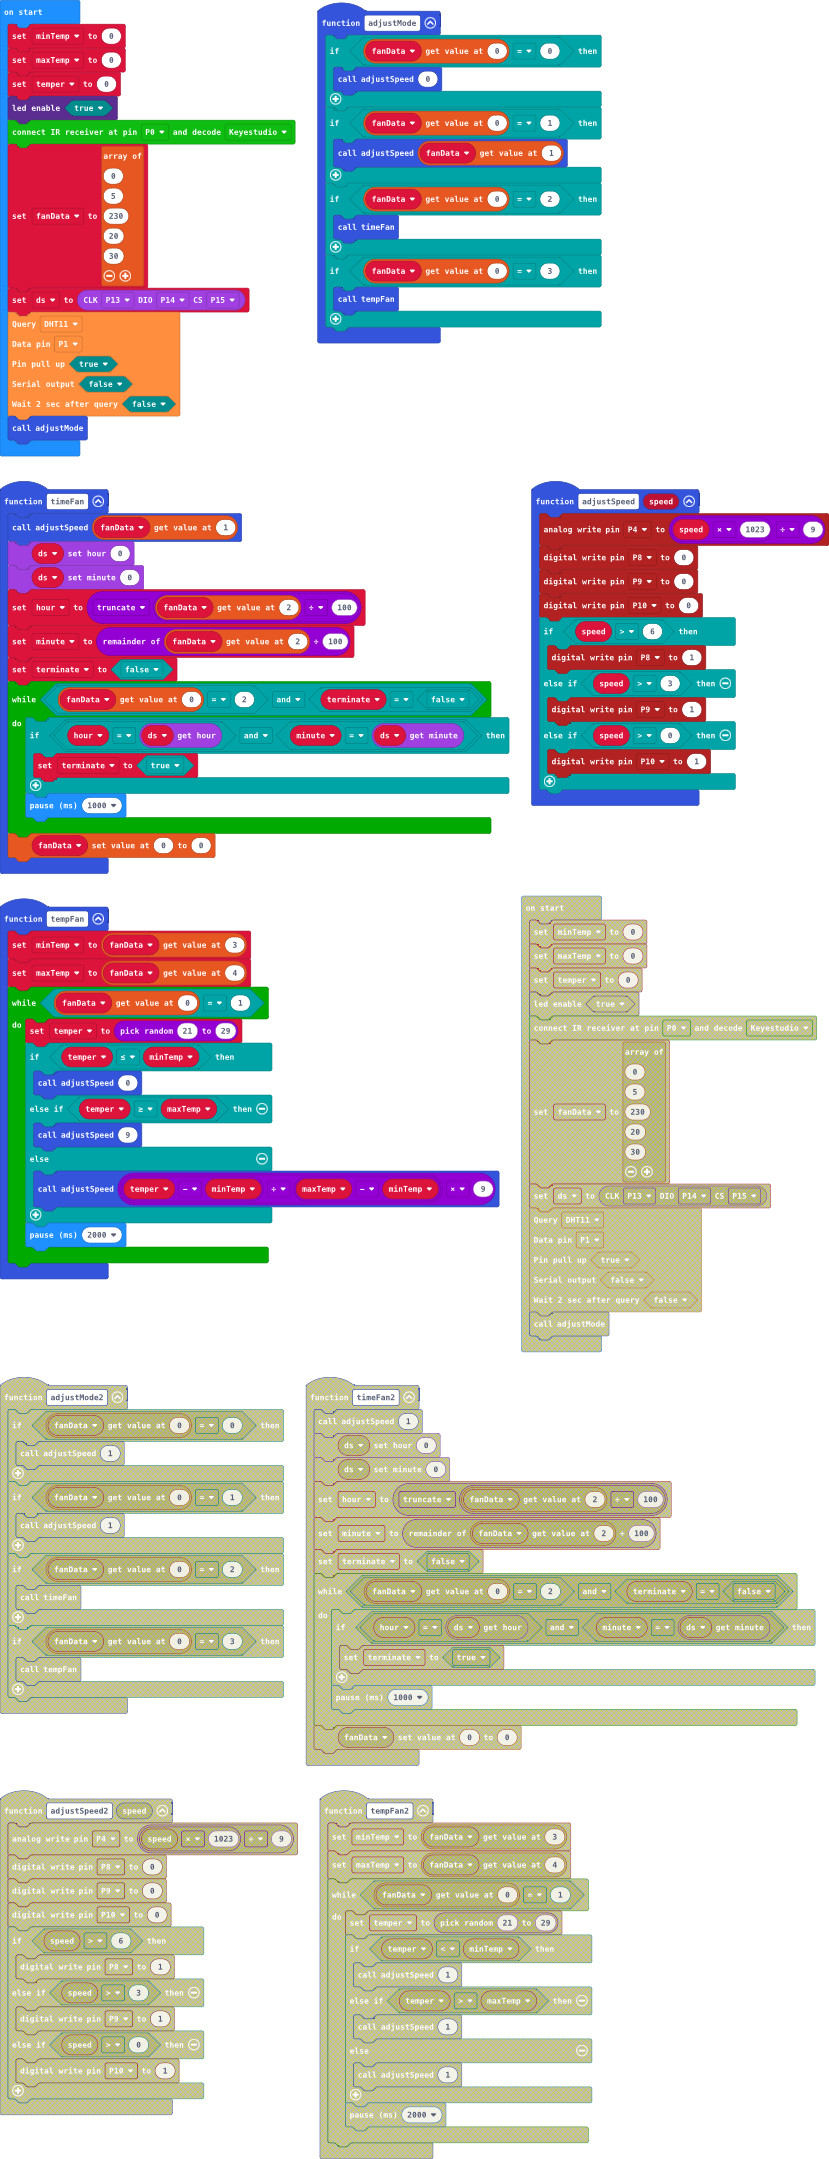
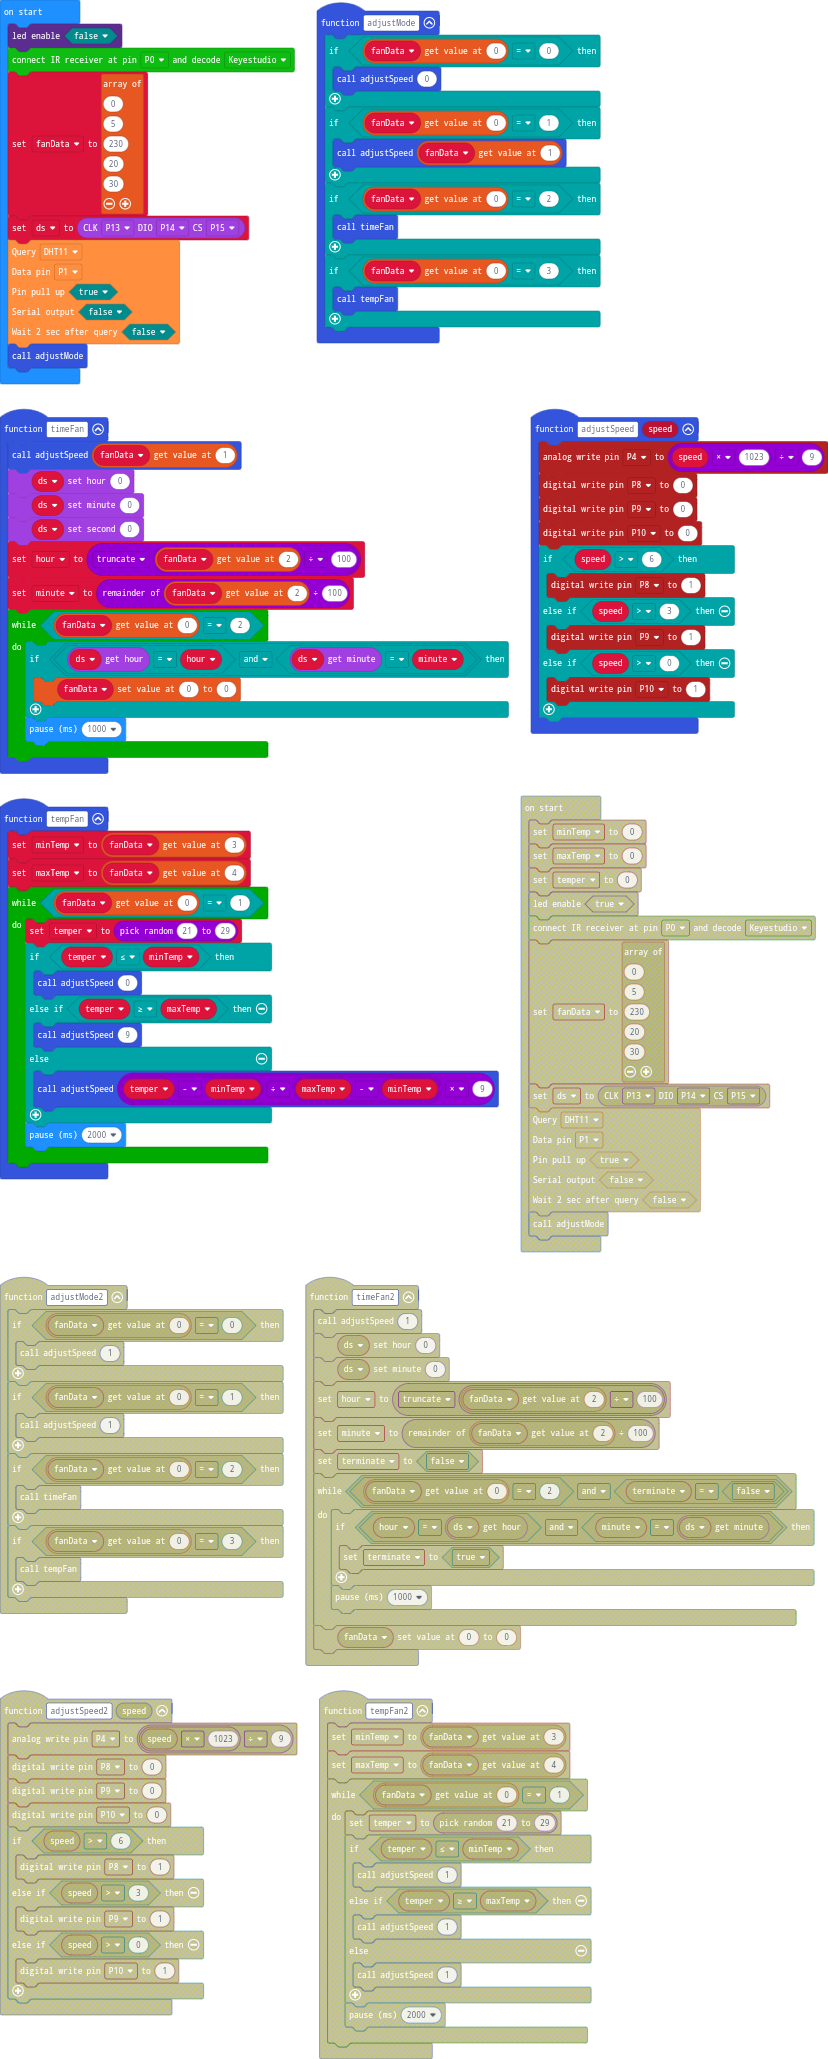
Update main.blocks, main.ts, main.py

diff --git a/main.ts b/main.ts
@@ -31,16 +31,15 @@ function timeFan () {
     adjustSpeed(fanData[1])
     ds.setHour(0)
     ds.setMinute(0)
+    ds.setSecond(0)
     hour = Math.trunc(fanData[2] / 100)
     minute = fanData[2] % 100
-    terminate = false
-    while (fanData[0] == 2 && terminate == false) {
-        if (hour == ds.getHour() && minute == ds.getMinute()) {
-            terminate = true
+    while (fanData[0] == 2) {
+        if (ds.getHour() == hour && ds.getMinute() == minute) {
+            fanData[0] = 0
         }
         basic.pause(1000)
     }
-    fanData[0] = 0
 }
 function adjustSpeed (speed: number) {
     pins.analogWritePin(AnalogPin.P4, speed * 1023 / 9)
@@ -55,18 +54,14 @@ function adjustSpeed (speed: number) {
         pins.digitalWritePin(DigitalPin.P10, 1)
     }
 }
-let terminate = false
 let minute = 0
 let hour = 0
-let ds: DS1302.DS1302RTC = null
-let fanData: number[] = []
 let temper = 0
 let maxTemp = 0
 let minTemp = 0
-minTemp = 0
-maxTemp = 0
-temper = 0
-led.enable(true)
+let ds: DS1302.DS1302RTC = null
+let fanData: number[] = []
+led.enable(false)
 makerbit.connectIrReceiver(DigitalPin.P0, IrProtocol.Keyestudio)
 fanData = [
 0,

diff --git a/main.py b/main.py
@@ -1,3 +1,16 @@
+def tempFan():
+    global minTemp, maxTemp, temper
+    minTemp = fanData[3]
+    maxTemp = fanData[4]
+    while fanData[0] == 1:
+        temper = randint(21, 29)
+        if temper <= minTemp:
+            adjustSpeed(0)
+        elif temper >= maxTemp:
+            adjustSpeed(9)
+        else:
+            adjustSpeed((temper - minTemp) / (maxTemp - minTemp) * 9)
+        basic.pause(2000)
 def adjustMode():
     if fanData[0] == 0:
         adjustSpeed(0)
@@ -7,7 +20,18 @@ def adjustMode():
         timeFan()
     if fanData[0] == 3:
         tempFan()
-
+def timeFan():
+    global hour, minute
+    adjustSpeed(fanData[1])
+    ds.set_hour(0)
+    ds.set_minute(0)
+    ds.set_second(0)
+    hour = int(fanData[2] / 100)
+    minute = fanData[2] % 100
+    while fanData[0] == 2:
+        if ds.get_hour() == hour and ds.get_minute() == minute:
+            fanData[0] = 0
+        basic.pause(1000)
 def adjustSpeed(speed: number):
     pins.analog_write_pin(AnalogPin.P4, speed * 1023 / 9)
     pins.digital_write_pin(DigitalPin.P8, 0)
@@ -19,47 +43,14 @@ def adjustSpeed(speed: number):
         pins.digital_write_pin(DigitalPin.P9, 1)
     elif speed > 0:
         pins.digital_write_pin(DigitalPin.P10, 1)
-
-def timeFan():
-    global hour, minute, terminate
-    adjustSpeed(fanData[1])
-    ds.set_hour(0)
-    ds.set_minute(0)
-    hour = int(fanData[2] / 100)
-    minute = fanData[2] % 100
-    terminate = False
-    while fanData[0] == 2 and terminate == False:
-        if hour == ds.get_hour() and minute == ds.get_minute():
-            terminate = True
-        basic.pause(1000)
-    fanData[0] = 0
-
-def tempFan():
-    global minTemp, maxTemp, temper
-    minTemp = fanData[3]
-    maxTemp = fanData[4]
-    while fanData[0] == 1:
-        temper = randint(21, 29)
-        if temper < minTemp:
-            adjustSpeed(0)
-        elif temper > maxTemp:
-            adjustSpeed(9)
-        else:
-            adjustSpeed((temper - minTemp) / (maxTemp - minTemp) * 9)
-        basic.pause(2000)
-
-terminate = False
 minute = 0
 hour = 0
+temper = 0
+maxTemp = 0
+minTemp = 0
 ds: DS1302.DS1302RTC = None
 fanData: List[number] = []
-temper = 0
-maxTemp = 0
-minTemp = 0
-minTemp = 0
-maxTemp = 0
-temper = 0
-led.enable(True)
+led.enable(False)
 makerbit.connect_ir_receiver(DigitalPin.P0, IrProtocol.KEYESTUDIO)
 fanData = [0, 5, 230, 20, 30]
 ds = DS1302.create(DigitalPin.P13, DigitalPin.P14, DigitalPin.P15)
